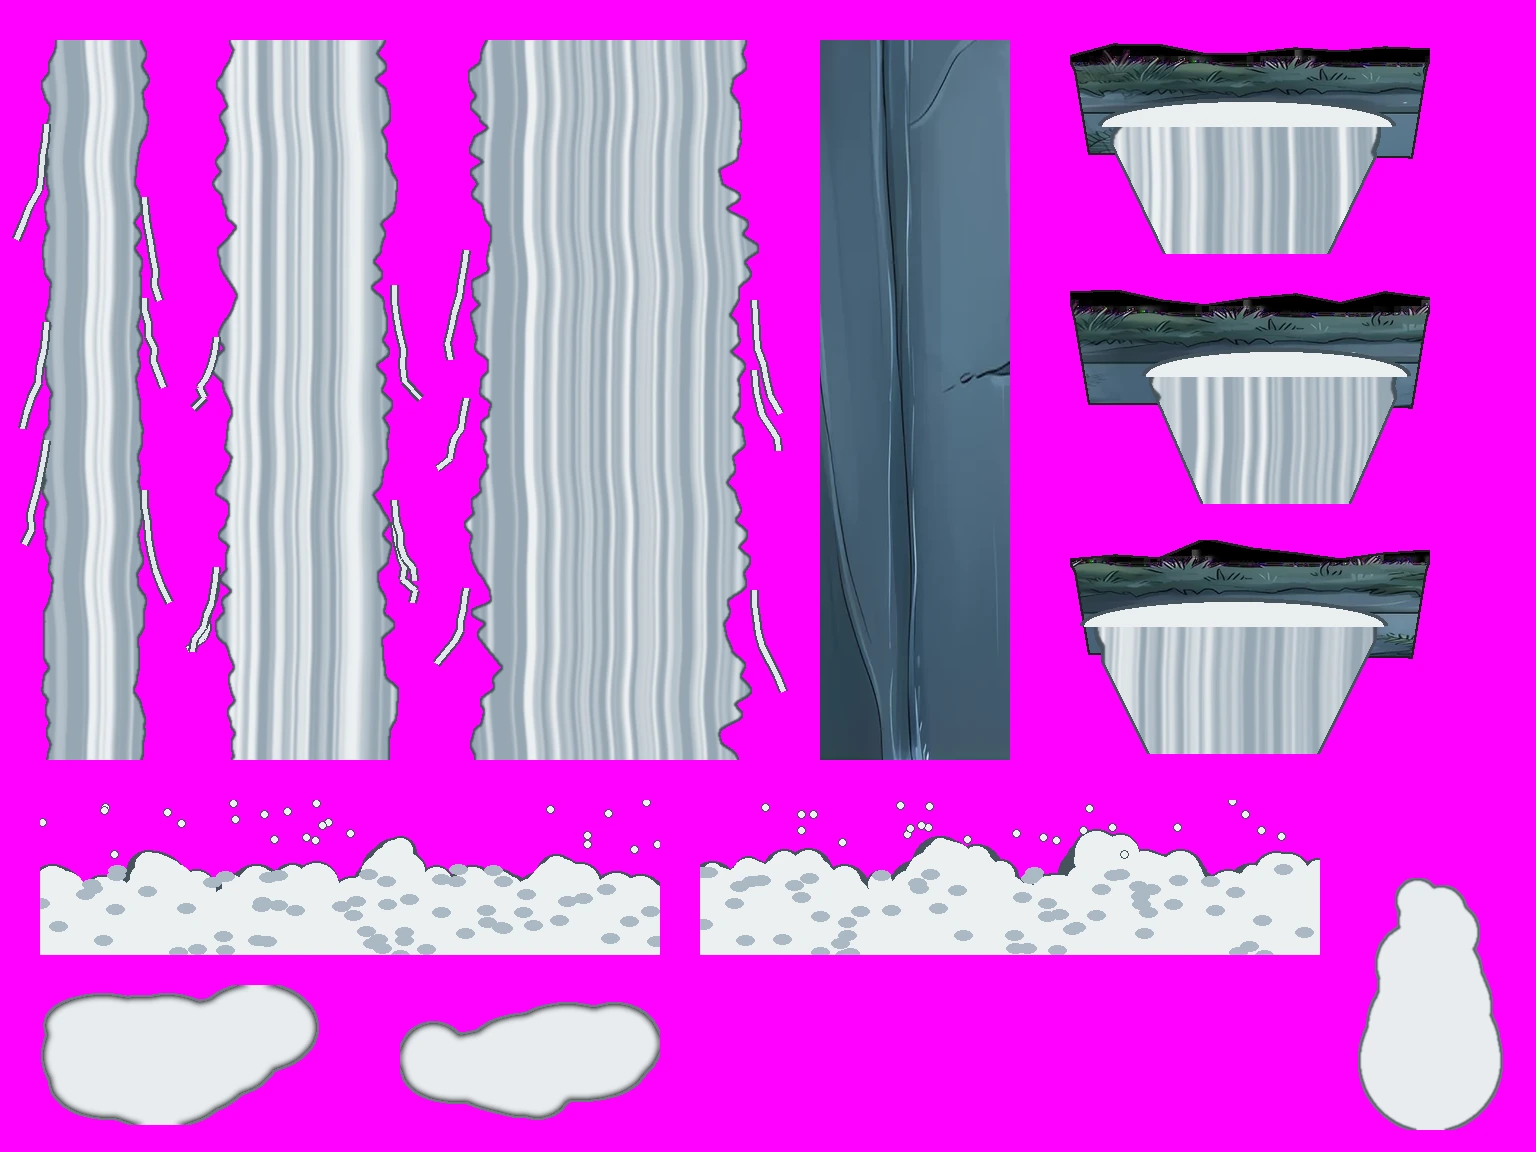
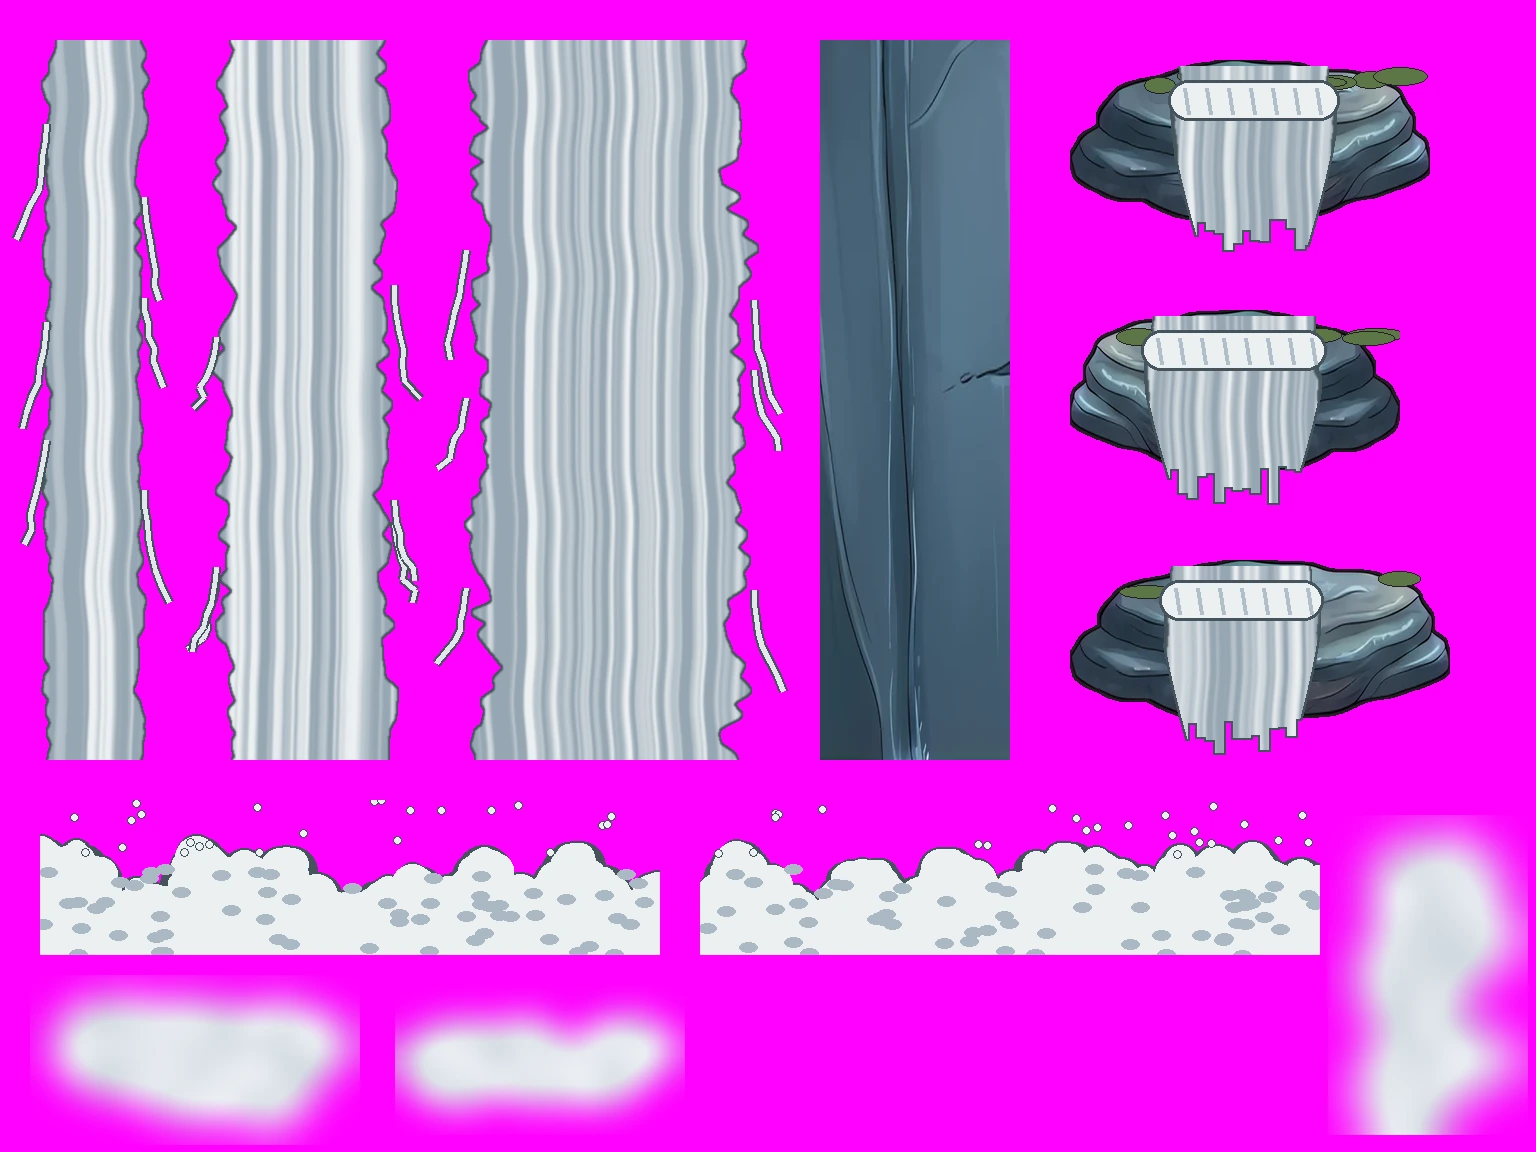
hf-art-blocking: round b starts (thicker anchors, liana runs, walls with fewer roots, soft mist, a real log for the wedged branch)
Claude-Session: https://claude.ai/code/session_019iachLiuwNTAZUBSJWUmR3

diff --git a/tools/art/hfbatch/blockstart.py b/tools/art/hfbatch/blockstart.py
@@ -77,13 +77,16 @@ def jag_mask(w, h, side, depth, seed):
 def w7anchors():
     W, H = 1216, 896
     S = Image.new('RGBA', (W, H), MAG)
-    branch, moss = opaque(kit(7, 'branch')), opaque(kit(7, 'mossStrip'))
-    bank = opaque(kit(7, 'bank'))
+    # (trimmed before they are made opaque: the kit cells' clear margins would otherwise turn into a black line along the top)
+    branch, moss = opaque(trim(kit(7, 'branch'))), opaque(trim(kit(7, 'mossStrip')))
+    bank = opaque(trim(kit(7, 'bank')))
     lia = trim(kit(7, 'liana'))
     body = lia.crop((0, 120, lia.width, 520))   # the liana's straight stretch
     # four lintels: (source, crop box, broken side, slot)
-    specs = [(branch, (0, 0, 300, 95), 'r', 0, 0, 1.45), (moss, (40, 0, 340, 95), 'l', 1, 0, 1.4),
-             (bank, (0, 0, 360, 120), 'r', 0, 1, 1.15), (branch, (250, 0, 560, 95), 'l', 1, 1, 1.35)]
+    # (round b: thicker lintels, about half the 300 x 220 frame's height, and running on above the cell's top so no outline
+    # crosses the frame's top edge)
+    specs = [(branch, (0, 0, 260, 95), 'r', 0, 0, 1.7), (moss, (60, 0, 320, 95), 'l', 1, 0, 1.65),
+             (bank, (0, 0, 300, 120), 'r', 0, 1, 1.35), (branch, (300, 0, 560, 95), 'l', 1, 1, 1.6)]
     rnd = random.Random(7)
     for i, (src, box, side, cx, cy, k) in enumerate(specs):
         x0, y0 = cx * 608, cy * 448
@@ -102,7 +105,7 @@ def w7anchors():
         a[edge, :3] *= 0.72
         lin = outline(Image.fromarray(a.astype(np.uint8), 'RGBA'), 2)
         px = x0 + (608 - lw) // 2 + (30 if side == 'l' else -30)
-        py = y0 + 0          # the top edge sits on the cell's top: the lintel runs on above
+        py = y0 - 14         # the top edge runs off the cell's top: the lintel runs on above
         # the hanging liana: from the knot near the broken end, straight down past the cell's foot
         ko = (95, 140, 75, 120)[i]
         kx = px + (lw - ko if side == 'r' else ko)
@@ -164,7 +167,7 @@ def w7walls():
                 h = rnd.choice([110, 140, 170, 200, 230, 90])
             h = min(h, SH - y) if SH - y > 70 else SH - y
             # a carved meander band every so often
-            if row in (1, 5) and s != 2 or (s == 2 and row == 6):
+            if row in ((1, 5), (3,), (6,), (0, 4))[s]:
                 band = rs(branch.crop((20, 30, 560, 80)), SW * 1.8, 64).crop((rnd.randint(0, 200), 0, rnd.randint(0, 200) + SW, 64))
                 T.alpha_composite(band, (0, y)); ImageDraw.Draw(T).line([(0, y), (SW, y)], fill=INK, width=3)
                 y += 64; row += 1; continue
@@ -207,13 +210,12 @@ def w7walls():
         r = roots.crop((rx0, rnd.randint(0, 60), rx0 + roots.width // 2, roots.height))
         if rnd.random() < 0.5:
             r = r.transpose(Image.FLIP_LEFT_RIGHT)
-        r = rs(r, SW * rnd.uniform(0.6, 0.9), SH * rnd.uniform(0.3, 0.5))
-        if face_y is not None:  # (keep the root clear of the carved face)
-            ry = face_y + 310 if face_y + 310 + r.height < SH * 0.88 else max(int(SH * 0.12), face_y - r.height - 10)
-        else:
-            ry = rnd.randint(int(SH * 0.12), int(SH * 0.88) - r.height)
-        if face_y is None:  # (the face strip has no root: the face is its feature)
-            T.alpha_composite(r, (rnd.randint(-30, SW - r.width + 30), ry))
+        # (round b: a root on strips 1 and 4 only, high on one and low on the other, so side by side the roots never line up;
+        # the face strip and strip 2 have none)
+        r = rs(r, SW * rnd.uniform(0.45, 0.6), SH * rnd.uniform(0.24, 0.32))
+        ry = (int(SH * 0.14), None, None, int(SH * 0.56))[s]
+        if ry is not None:
+            T.alpha_composite(r, (rnd.randint(-10, SW - r.width + 10), ry))
         dd = ImageDraw.Draw(T)
         for j in range(5):
             mx, my = rnd.randint(0, SW - 40), rnd.randint(int(SH * 0.12), int(SH * 0.85))
@@ -462,5 +464,83 @@ def w6set(short):
     S.convert('RGB').save(OUT / ('start-w6perches.webp' if short else 'start-w6ledges.webp'), 'WEBP', quality=92)
 
 
-w7anchors(); w7walls(); w4falls(); w6set(False); w6set(True)
+# ------------------------------------------------------------------------------------------------------------- W7 liana runs
+def w7lianas():
+    """six hanging liana runs (round b) to match the anchors' knotted liana: thick brown, a little wavy, a few leaf stubs"""
+    W, H = 1216, 896
+    S = Image.new('RGBA', (W, H), MAG)
+    d = ImageDraw.Draw(S)
+    rnd = random.Random(77)
+    col, hi, lo = (128, 86, 66, 255), (162, 114, 86, 255), (98, 64, 50, 255)
+    for i in range(6):
+        cx = 100 + i * 200
+        w = (40, 52, 44, 58, 36, 48)[i]
+        ph = rnd.uniform(0, 6.28)
+        pts = [(cx + 7 * math.sin(ph + y / 140), y) for y in range(10, H - 10, 8)]
+        d.line(pts, fill=INK, width=w + 6, joint='curve')
+        d.line(pts, fill=col, width=w, joint='curve')
+        d.line([(x + w * 0.22, y) for x, y in pts], fill=lo, width=max(4, w // 5), joint='curve')
+        d.line([(x - w * 0.22, y) for x, y in pts], fill=hi, width=max(3, w // 7), joint='curve')
+        if i in (1, 3):  # two strands twisted round each other
+            for y0 in range(30, H - 60, 70):
+                d.line([(cx - w / 2, y0), (cx + w / 2, y0 + 34)], fill=INK, width=5)
+        for _ in range(4):  # leaf stubs and thorns
+            y = rnd.randint(60, H - 80)
+            x = cx + 7 * math.sin(ph + y / 140)
+            sd = rnd.choice((-1, 1))
+            leaf = [(x + sd * w / 2, y), (x + sd * (w / 2 + 26), y + 10), (x + sd * (w / 2 + 10), y + 30)]
+            d.polygon(leaf, fill=(118, 82, 52, 255), outline=INK)
+    S.convert('RGB').save(OUT / 'start-w7lianas.webp', 'WEBP', quality=92)
+
+
+# ------------------------------------------------------------------------------------------------------------------ W4 mist
+def w4mist():
+    """round b: two mist clouds and a spray plume, soft and see-through (round a's came back as hard cartoon clouds)"""
+    W, H = 1216, 640
+    S = Image.new('RGBA', (W, H), MAG)
+    rnd = random.Random(44)
+
+    def soft(w, h, blobs, shape, blur):
+        M = Image.new('L', (w, h), 0)
+        md = ImageDraw.Draw(M)
+        for _ in range(blobs):
+            cx, cy, rx, ry = shape(rnd)
+            md.ellipse([cx - rx, cy - ry, cx + rx, cy + ry], fill=rnd.randint(150, 230))
+        M = M.filter(ImageFilter.GaussianBlur(blur))
+        T = Image.new('RGBA', (w, h), (234, 238, 242, 255))
+        sh = Image.new('RGBA', (w, h), (190, 200, 208, 255))
+        nz = Image.fromarray((np.random.RandomState(rnd.randint(0, 999)).rand(h // 40 + 2, w // 40 + 2) * 255).astype(np.uint8))
+        sh.putalpha(nz.resize((w, h), Image.BICUBIC).filter(ImageFilter.GaussianBlur(14)).point(lambda v: int(v * 0.6)))
+        T.alpha_composite(sh)
+        T.putalpha(M)
+        return T
+    S.alpha_composite(soft(500, 240, 16, lambda r: (r.randint(90, 410), r.randint(90, 150), r.randint(50, 110), r.randint(26, 50)), 22), (20, 60))
+    S.alpha_composite(soft(420, 220, 14, lambda r: (r.randint(80, 340), r.randint(80, 140), r.randint(40, 90), r.randint(22, 44)), 20), (540, 80))
+    S.alpha_composite(soft(220, 560, 18, lambda r: (110 + r.randint(-35, 35), r.randint(80, 500), r.randint(26, 64), r.randint(30, 70)), 18), (980, 40))
+    S.convert('RGB').save(OUT / 'start-w4mist.webp', 'WEBP', quality=92)
+
+
+# --------------------------------------------------------------------------------------------------------- W6 wedged branch
+def w6wedge():
+    """round b: a round fallen log (bark, a broken end) wedged in the crotch between two arching stilt roots that rise past its
+    ends, as a 3:1 ledge (768 x 448 cell) and two 1.3:1 perches (384 x 768 cells, the roots running on down)"""
+    W, H = 1536, 768
+    S = Image.new('RGBA', (W, H), MAG)
+    log = trim(prop('w6d', 'log'))
+    log = log.crop((0, 0, int(log.width * 0.72), log.height))
+    sl, sr = trim(kit(6, 'snapL')), trim(kit(6, 'snapR'))
+    for cx, cw, ch, pw, lh, rh in ((0, 768, 448, 620, 120, 330), (768, 384, 768, 280, 96, 600), (1152, 384, 768, 260, 104, 560)):
+        px0 = cx + (cw - pw) // 2
+        top = 70 if cw == 768 else 230
+        lg = rs(log, pw * 0.92, lh)
+        if cx == 1152:
+            lg = lg.transpose(Image.FLIP_LEFT_RIGHT)
+        S.alpha_composite(lg, (px0 + int(pw * 0.04), top + 26))
+        for r, fx in ((sl, 0.06), (sr, 0.94)):
+            q = rs(r, pw * 0.34, rh)
+            S.alpha_composite(q, (round(px0 + pw * fx - q.width / 2), top))
+    S.convert('RGB').save(OUT / 'start-w6wedge.webp', 'WEBP', quality=92)
+
+
+w7anchors(); w7walls(); w4falls(); w6set(False); w6set(True); w7lianas(); w4mist(); w6wedge()
 print('ok', sorted(p.name for p in OUT.glob('start-*')))

diff --git a/tools/art/hfbatch/make_blocking_spec.py b/tools/art/hfbatch/make_blocking_spec.py
@@ -42,16 +42,37 @@ P['w6perches'] = P['w6ledges'].replace('four separate ledges to stand on', 'four
 NEG = ('perspective, three-quarter view, isometric, seen from above, top-down, text, letters, numbers, watermark, frame, border, photo, '
        '3d render, blurry, gradient background, sky, cast shadow, people, character, animal, sloth character')
 NEG_W = NEG.replace(', sloth character', '') + ', turquoise water, cyan, bright blue, glass, ice, straight edges'
-SIZES = {'w7anchors': (1216, 896), 'w7walls': (1280, 1216), 'w4falls': (1536, 1152), 'w6ledges': (1536, 896), 'w6perches': (1536, 768)}
-STR = {'w7anchors': (0.55, 0.68), 'w7walls': (0.55, 0.68), 'w4falls': (0.62, 0.76), 'w6ledges': (0.55, 0.68), 'w6perches': (0.55, 0.68)}
+P['w7lianas'] = ("slothadv style, painted storybook illustration, six separate thick brown jungle lianas hanging straight down from top "
+                 "to bottom for a 2D platform game, each a woody vine with soft brown bark, a darker shadow side and a light edge, a few "
+                 "small dry leaves and thorn stubs, two of them made of two strands twisted together. " + END)
+P['w4mist'] = ("slothadv style, painted storybook illustration, soft white waterfall mist for a 2D platform game: two wide low drifting "
+               "mist clouds and one tall rising spray plume, airbrushed soft wispy edges that fade out, misty and see-through, pale "
+               "white with soft blue-grey shading, no outline, not cartoon clouds. On one flat plain pure magenta background, no sky, "
+               "no text")
+P['w6wedge'] = ("slothadv style, painted storybook illustration, a 2D game prop sheet for a mangrove swamp world: a round fallen mossy "
+                "branch log with bark and a broken end, wedged in the crotch between two arching grey-green mangrove stilt roots that "
+                "rise past its ends, a flat walkable top on the log, pale shelf fungus on the roots; one wide version and two narrow "
+                "versions with long roots running down. Grey-green weathered wood, soft moss, dark outlines. " + END)
+if ROUND == 'a':
+    SIZES = {'w7anchors': (1216, 896), 'w7walls': (1280, 1216), 'w4falls': (1536, 1152), 'w6ledges': (1536, 896), 'w6perches': (1536, 768)}
+    STR = {'w7anchors': (0.55, 0.68), 'w7walls': (0.55, 0.68), 'w4falls': (0.62, 0.76), 'w6ledges': (0.55, 0.68), 'w6perches': (0.55, 0.68)}
+    SEEDS = (5, 17)
+else:  # round b (after the review of round a): thicker anchors, matching liana runs, walls with fewer roots, soft mist, a real log
+    SIZES = {'w7anchors': (1216, 896), 'w7lianas': (1216, 896), 'w7walls': (1280, 1216), 'w4mist': (1216, 640), 'w6wedge': (1536, 768)}
+    STR = {'w7anchors': (0.55, 0.62), 'w7lianas': (0.55, 0.65), 'w7walls': (0.62, 0.68), 'w4mist': (0.6, 0.75), 'w6wedge': (0.58, 0.68)}
+    SEEDS = (17, 29)
+NEG_MIST = ('text, letters, watermark, frame, border, photo, 3d render, gradient background, sky, people, animal, hard outline, '
+            'cartoon cloud, cotton ball, solid shape')
 items = []
 for n, (w, h) in SIZES.items():
     for st in STR[n]:
-        for sd in (5, 17):
+        for sd in SEEDS:
             it = {'name': f'{n}-{ROUND}-s{round(st * 100)}-{sd}', 'start': f'start-{n}.webp', 'prompt': P[n], 'strength': st, 'seed': sd,
                   'w': w, 'h': h}
             if n == 'w4falls':
                 it['neg'] = NEG_W
+            if n == 'w4mist':
+                it['neg'] = NEG_MIST
             if n == 'w7walls':
                 it['neg'] = NEG.replace(', sloth character', '') + ', living animal'
             items.append(it)
